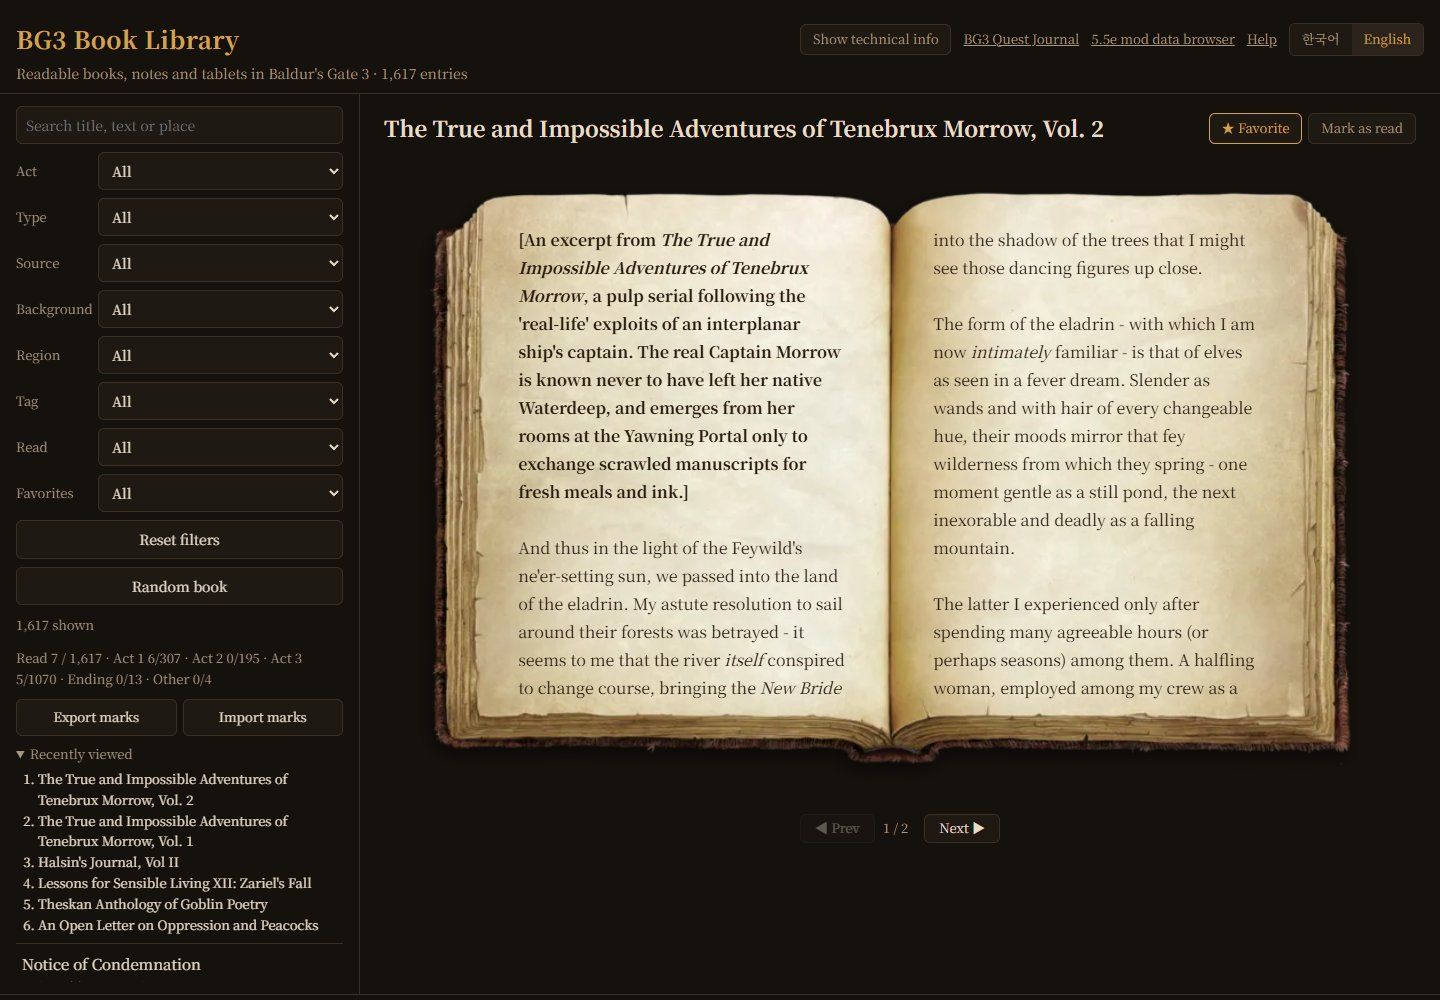
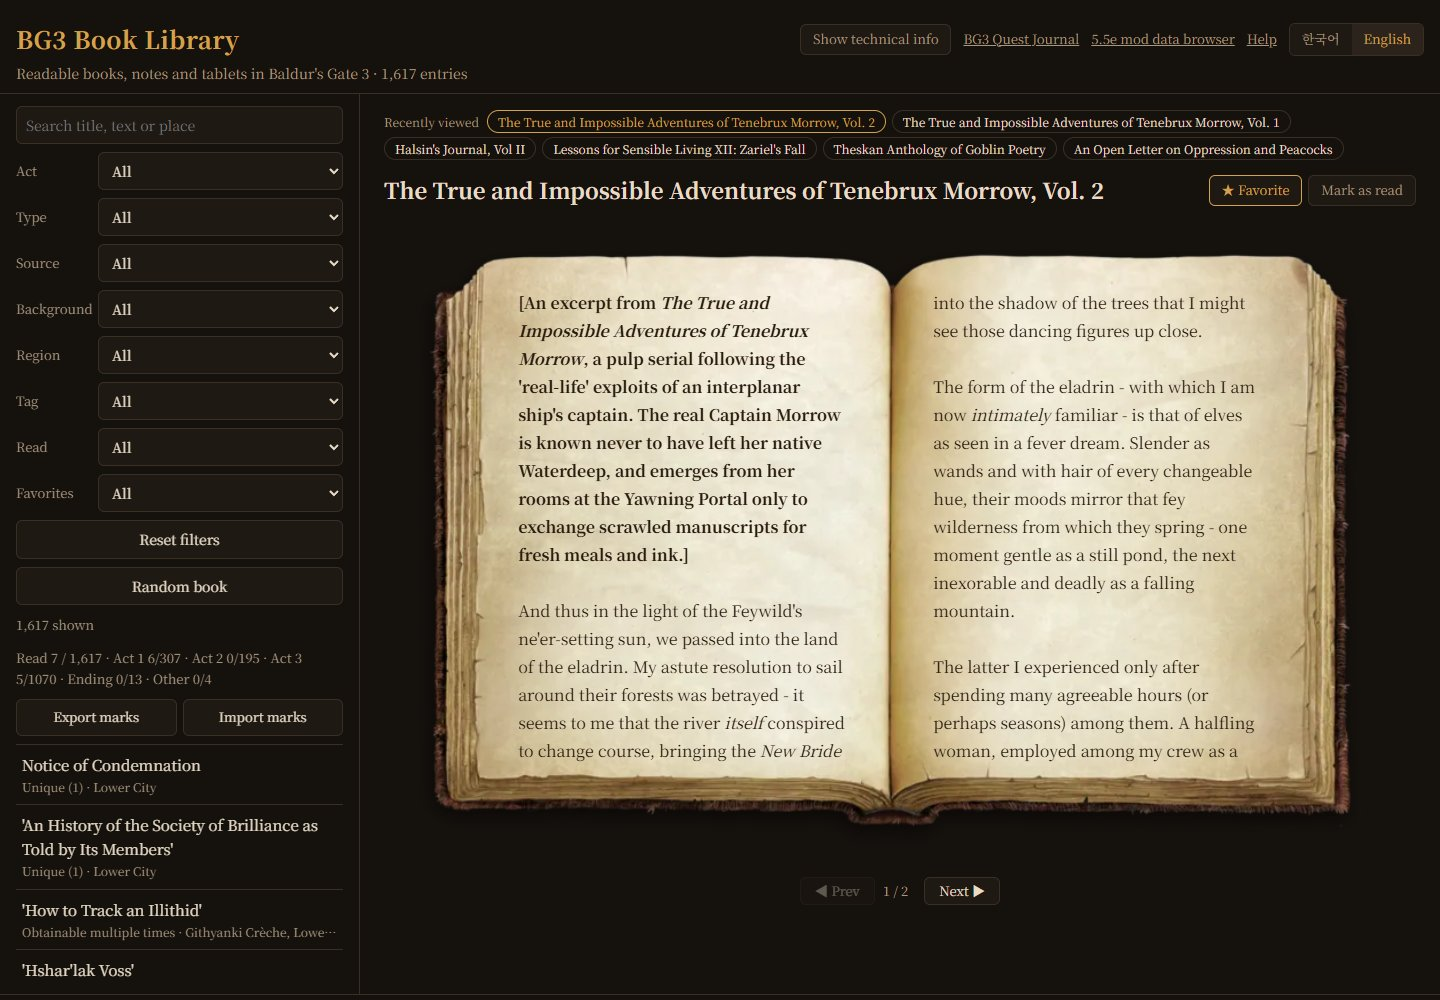
feat: 최근 본 책을 책 제목 위로 이동

diff --git a/docs/app.js b/docs/app.js
@@ -129,7 +129,6 @@ function applyUi() {
     books.sort((a, b) => title(a).localeCompare(title(b), ui));
     apply();
     current ? show(current) : ($("detail").innerHTML = `<p class="empty">${T("pick")}</p>`);
-    renderRecent();
   }
 }
 
@@ -163,7 +162,6 @@ function show(b) {
   if (RECENT[0] !== b.id) {
     RECENT = [b.id, ...RECENT.filter((id) => id !== b.id)].slice(0, 10);
     saveRecent();
-    renderRecent();
   }
   document.querySelectorAll("#list li").forEach((li) => li.classList.toggle("on", li.dataset.id === b.id));
   const bg = b.bg[0] || "None";
@@ -176,6 +174,7 @@ function show(b) {
   }).join("");
   const shops = b.s.map((s) => (ui === "en" ? s.e : s.k));
   $("detail").innerHTML = `
+    ${recentNav()}
     <div class="head-row"><h2 class="title">${esc(title(b))}</h2>
       <span class="head-btns"><button class="readbtn${FAV.has(b.id) ? " on" : ""}" data-fav>${FAV.has(b.id) ? T("isFav") : T("markFav")}</button>
       <button class="readbtn${READ.has(b.id) ? " on" : ""}" data-read>${READ.has(b.id) ? T("isRead") : T("markRead")}</button></span></div>
@@ -222,10 +221,12 @@ function renderProgress() {
     ...ACT_ORDER.filter((a) => acts[a]).map((a) => `${val(a)} ${acts[a][0]}/${acts[a][1]}`)].join(" · ");
 }
 
-function renderRecent() {
+// Above the title; the open book is marked, the others open on click.
+function recentNav() {
   const ids = RECENT.filter((id) => byId[id]);
-  $("recent-box").hidden = !ids.length;
-  $("recent").innerHTML = ids.map((id) => `<li><a href="#" data-id="${esc(id)}">${esc(title(byId[id]))}</a></li>`).join("");
+  return `<nav class="recent"><b>${T("recent")}</b>${ids.map((id) => id === current.id
+    ? `<span class="on">${esc(title(byId[id]))}</span>`
+    : `<a href="#" data-go="${esc(id)}">${esc(title(byId[id]))}</a>`).join("")}</nav>`;
 }
 
 function openBook(b) {
@@ -405,10 +406,6 @@ $("list").addEventListener("click", (e) => {
     show(byId[li.dataset.id]);
     if (innerWidth <= 820) $("detail").scrollIntoView({ behavior: "smooth" });
   }
-});
-$("recent").addEventListener("click", (e) => {
-  const a = e.target.closest("a[data-id]");
-  if (a) { e.preventDefault(); openBook(byId[a.dataset.id]); }
 });
 $("random").addEventListener("click", () => shown.length && openBook(shown[Math.floor(Math.random() * shown.length)]));
 

diff --git a/docs/style.css b/docs/style.css
@@ -34,10 +34,11 @@ h1 { margin: 0; font-size: 24px; color: var(--accent); letter-spacing: .02em; }
 .io { display: flex; gap: 6px; }
 .io button { font-size: 13px; }
 #io-msg:empty { display: none; }
-#recent-box summary { cursor: pointer; font-size: 13px; color: var(--muted); }
-#recent { margin: 4px 0 0; padding-left: 22px; font-size: 13px; max-height: 180px; overflow-y: auto; }
-#recent a { color: var(--text); text-decoration: none; }
-#recent a:hover { color: var(--accent); }
+.recent { display: flex; flex-wrap: wrap; gap: 4px 6px; align-items: center; margin: 0 0 12px; font-size: 12px; color: var(--muted); }
+.recent b { font-weight: normal; margin-right: 2px; }
+.recent a, .recent span { border: 1px solid var(--line); border-radius: 999px; padding: 1px 10px; color: var(--text); text-decoration: none; }
+.recent a:hover { color: var(--accent); }
+.recent span.on { border-color: var(--accent); color: var(--accent); }
 #list { list-style: none; margin: 0; padding: 0; overflow-y: auto; flex: 1; border-top: 1px solid var(--line); }
 #list li { padding: 8px 6px; border-bottom: 1px solid var(--line); cursor: pointer; }
 #list li:hover, #list li.on { background: var(--chip); }

diff --git a/docs/index.html b/docs/index.html
@@ -48,7 +48,6 @@
     <div class="io"><button id="export" type="button" data-i18n="exportBtn"></button><button id="import" type="button" data-i18n="importBtn"></button>
       <input id="import-file" type="file" accept="application/json,.json" hidden></div>
     <p class="count" id="io-msg"></p>
-    <details id="recent-box" hidden><summary data-i18n="recent"></summary><ol id="recent"></ol></details>
     <ul id="list"></ul>
   </aside>
   <main id="detail"></main>
